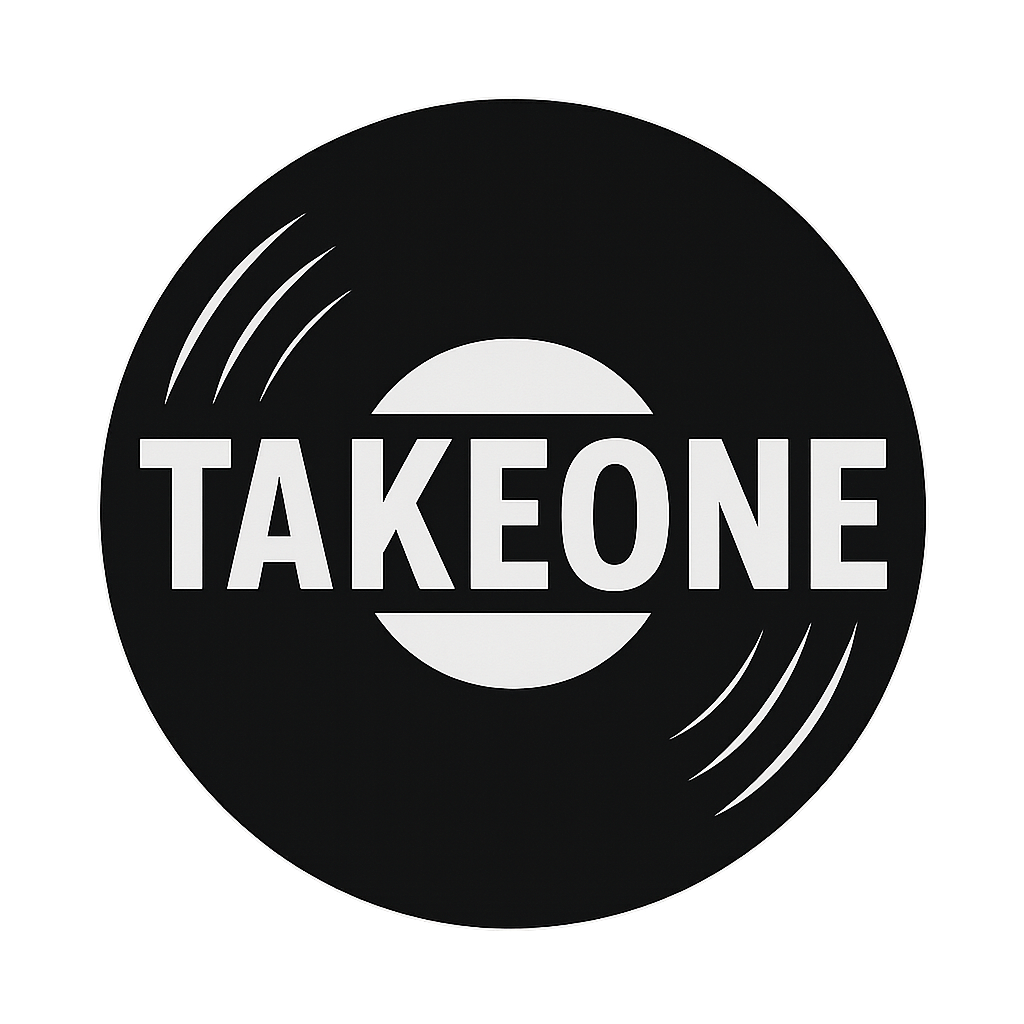
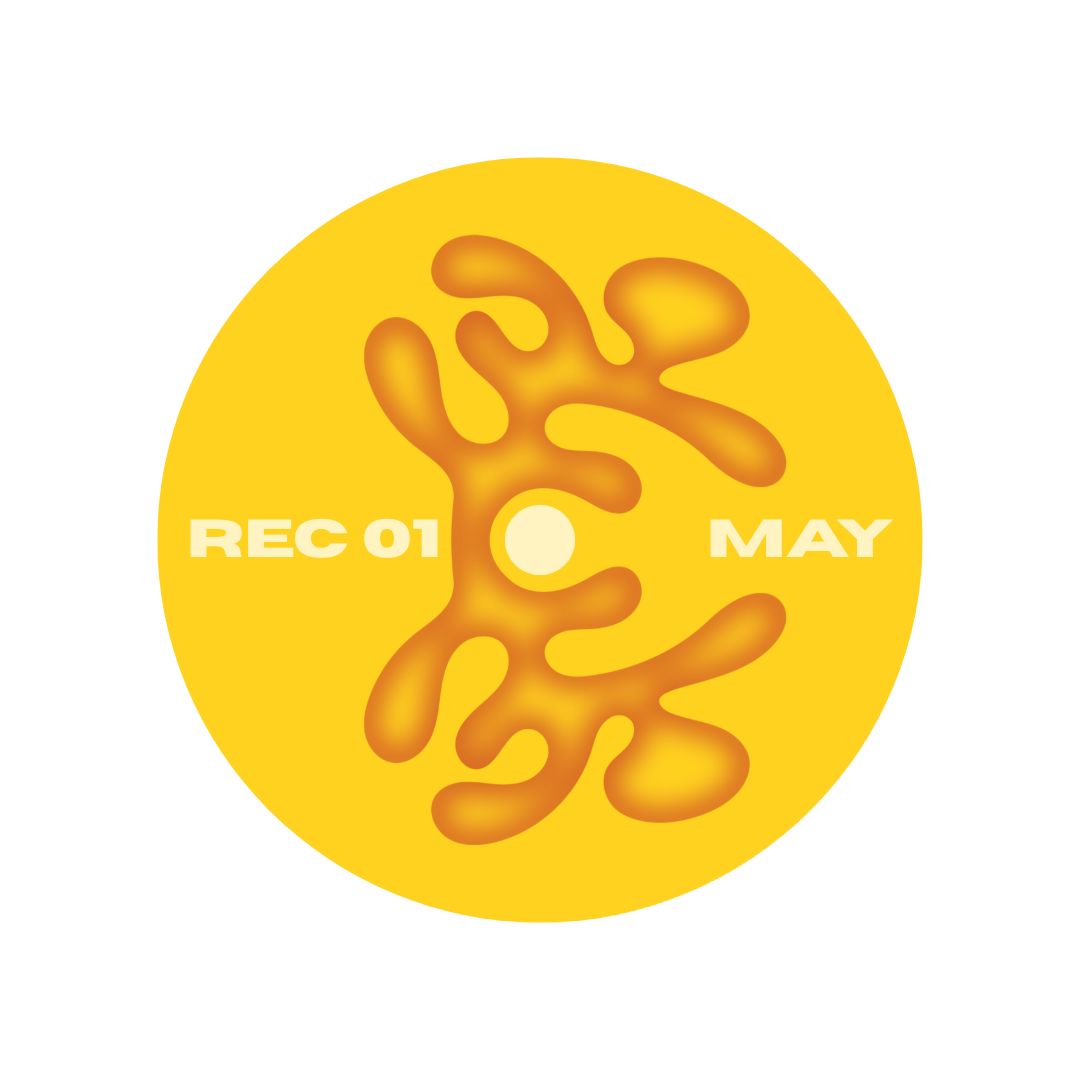
Modified Spinning Disk

diff --git a/sitev1/src/App.jsx b/sitev1/src/App.jsx
@@ -47,7 +47,7 @@ import lonedImage from './assets/miro-18-04-2025/img1.jpg';
 import davidePiras from './assets/artists/davidePiras.jpg';
 import mattiaLorenzi from './assets/artists/mattiaLorenzi.jpg';
 import AudioTurntable from "./AudioTurntable.jsx";
-import disk from "./assets/audioTrack/disk4.png";
+import disk from "./assets/audioTrack/disk.png";
 import setMp3 from "./assets/audioTrack/takeone_set2.mp3";
 
 // ---------------------------
